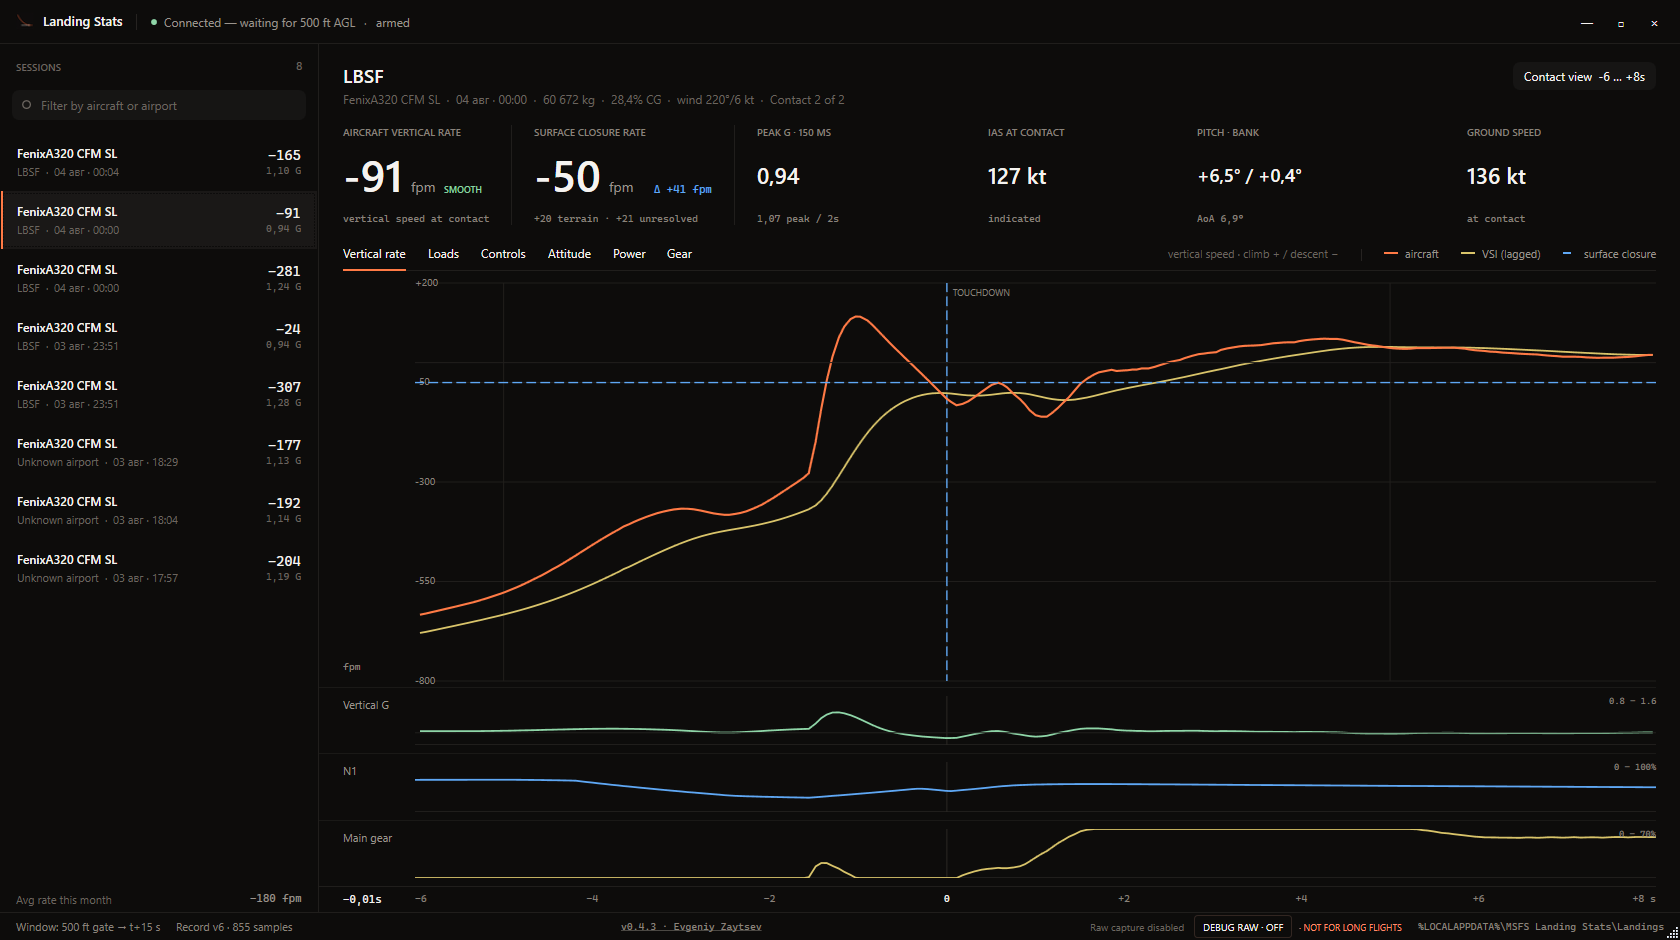
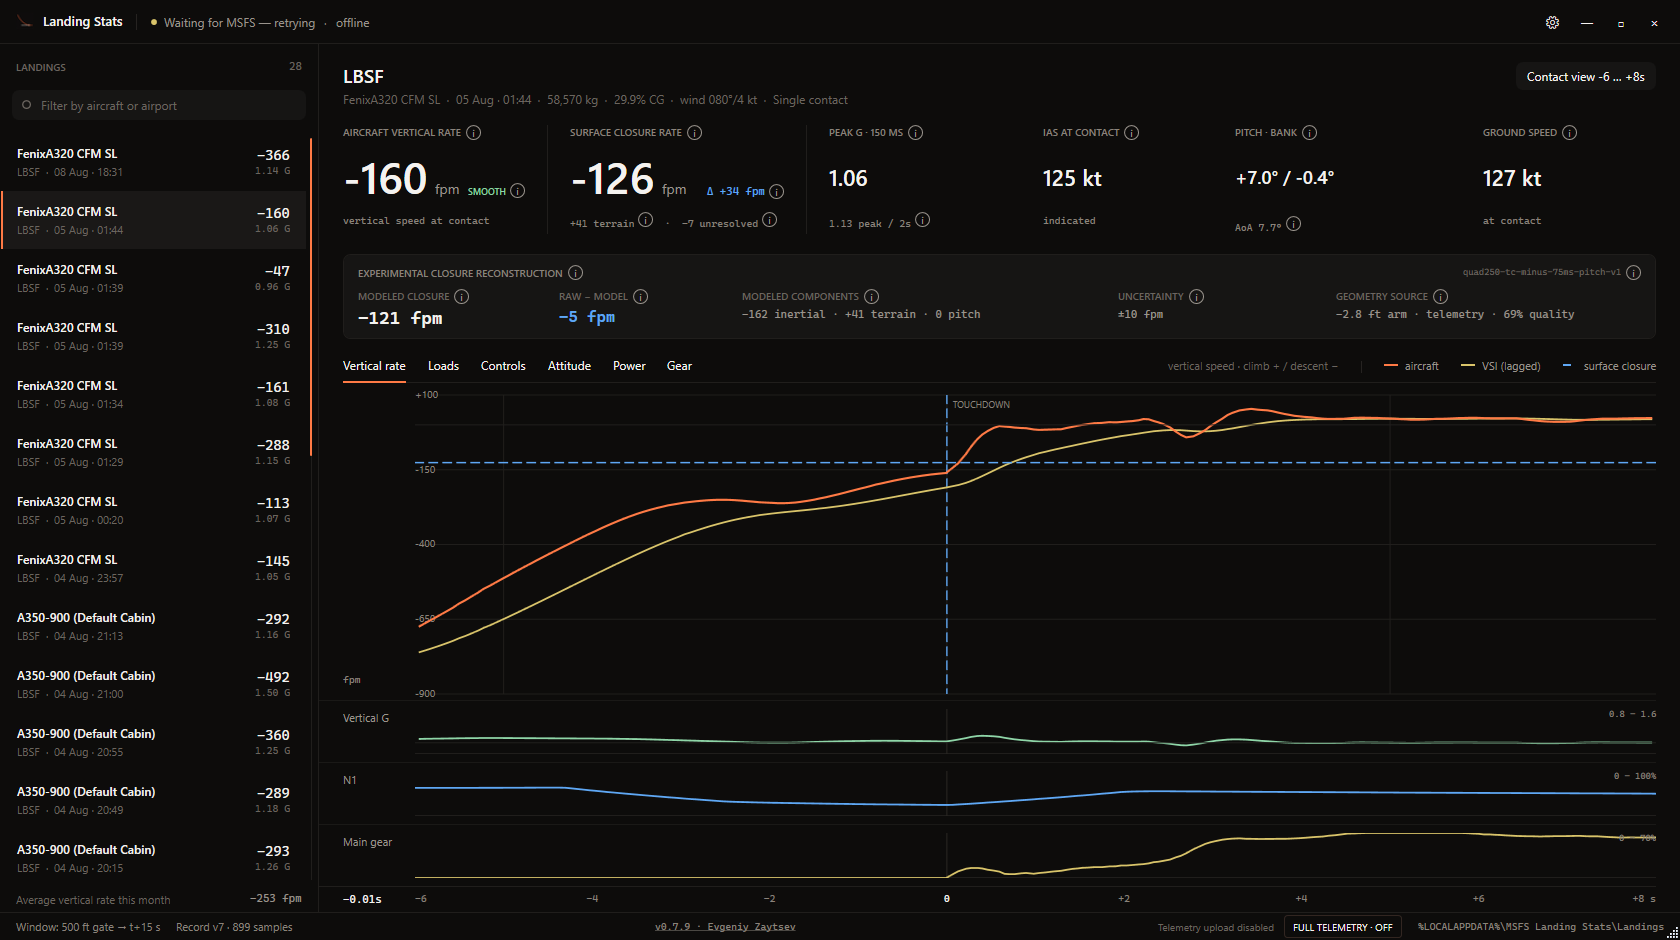
Update README screenshot and badges

diff --git a/README.md b/README.md
@@ -1,5 +1,10 @@
 # MSFS 2024 Landing Stats
 
+[![Build](https://github.com/Arderos/msfs24-landing-stats/actions/workflows/build.yml/badge.svg?branch=main)](https://github.com/Arderos/msfs24-landing-stats/actions/workflows/build.yml)
+[![Latest release](https://img.shields.io/github/v/release/Arderos/msfs24-landing-stats?display_name=tag&sort=semver)](https://github.com/Arderos/msfs24-landing-stats/releases/latest)
+![Language](https://img.shields.io/badge/language-C%23-512BD4?logo=dotnet&logoColor=white)
+![Platform](https://img.shields.io/badge/platform-Windows%2010%20%7C%2011-0078D4?logo=windows&logoColor=white)
+
 ![MSFS Landing Stats dashboard](assets/application.png)
 
 A Windows desktop application that records, analyzes, and visualizes landings in
